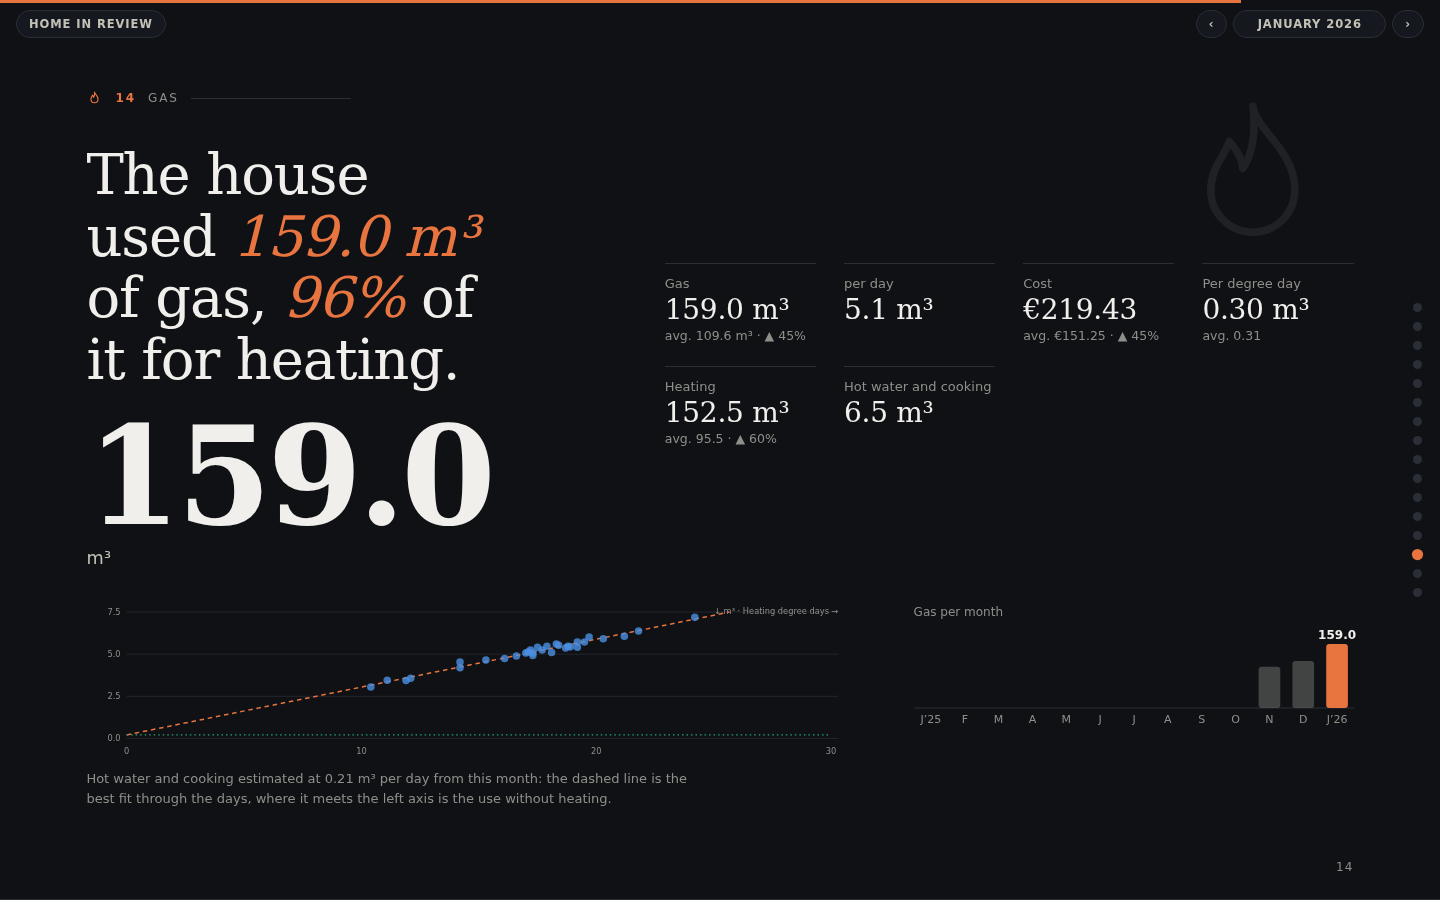
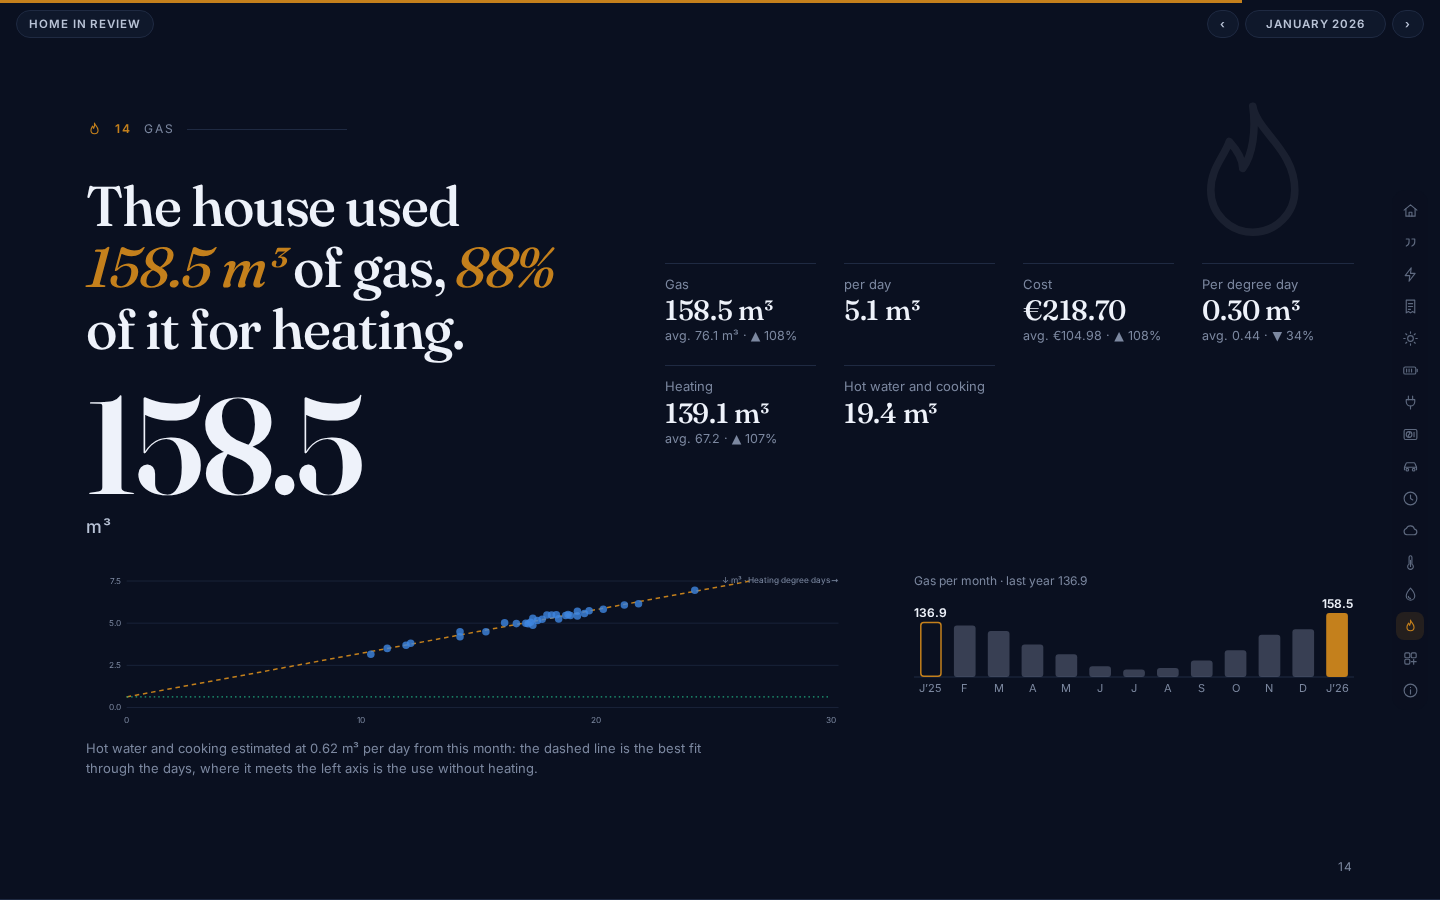
README screenshots in the new design (anonymised demo with neutral location); demo totals add up

diff --git a/dev/demo.py b/dev/demo.py
@@ -110,7 +110,17 @@ def main() -> None:
                                       [max(0.0, 18.0 - w["mean"]) for w in d["weather"]["daily"] if w.get("mean") is not None]) or {})
             if d.get("energy", {}).get("total_cost") is not None:
                 d["energy"]["gas_cost"] = d["gas"]["cost"]
-                d["energy"]["total_cost"] += d["gas"]["cost"]
+        # Totals from the (scaled) parts, so the bill adds up in the demo.
+        e = d.get("energy") or {}
+        if e.get("cost_import") is not None:
+            e["total_cost"] = (e["cost_import"] - (e.get("compensation") or 0) + (e.get("gas_cost") or 0)
+                               + (e.get("fixed_costs") or 0))
+            e["bill_total"] = e["total_cost"] + (e.get("water_cost") or 0)
+        # Never show the real (rounded) location or sensor names in the demo.
+        if d.get("weather"):
+            if d["weather"].get("location"):
+                d["weather"]["location"] = {"lat": 52.1, "lon": 5.2}
+            d["weather"].pop("sensor_name", None)
         names = {"hours_above": ["Desk in use", "Second desk in use", "Standing desk", "TV on", "Wood stove lit"],
                  "runs_above": ["Dishwasher", "Washing machine", "Tumble dryer"]}
         seen: dict[str, int] = {}

diff --git a/README.md b/README.md
@@ -57,12 +57,13 @@ French, Spanish and Italian so far) and your unit system and currency.
 |---|---|
 | ![Electricity](docs/screenshots/electricity.png) | ![Devices (light theme)](docs/screenshots/devices-light.png) |
 | ![Weather](docs/screenshots/weather.png) | ![Indoors](docs/screenshots/indoor.png) |
-| ![Heat pump](docs/screenshots/heat-pump.png) | ![Gas: heating versus hot water](docs/screenshots/gas.png) |
+| ![Heat pump](docs/screenshots/heat-pump.png) | ![Car](docs/screenshots/car.png) |
+| ![Gas: heating versus hot water](docs/screenshots/gas.png) | ![Costs (light theme)](docs/screenshots/costs-light.png) |
 | ![Year review](docs/screenshots/year-electricity.png) | ![Your own figures](docs/screenshots/own-figures.png) |
 
 <img src="docs/screenshots/mobile.png" width="240" alt="On a phone">
 
-*Screenshots use anonymised demo data.*
+*Screenshots use anonymised demo data, in the night theme (and two in the light theme).*
 
 ## Installation
 

diff --git a/CHANGELOG.md b/CHANGELOG.md
@@ -1,6 +1,6 @@
 # Changelog
 
-## 0.4.0 (not released yet)
+## 0.4.0
 
 **New**
 - Reports update themselves: each report remembers the version and the settings it was made with. After an update
@@ -21,6 +21,7 @@
   (Nov–Feb ×1.1, Mar/Oct ×1.0, Apr–Sep ×0.8), so gas per degree day can be compared with other services. The weather
   slide states which definition is used, and for which place the weather is (the rounded Home Assistant location,
   or the name of your outdoor sensor).
+- README screenshots in the new design.
 - Click a bar in any month chart (the 13-month trends and the year review) to open that month.
 - The navigation on the right shows each slide's icon instead of a dot (the current one highlighted, the name on
   hover); the heat pump and own figures got icons of their own.
